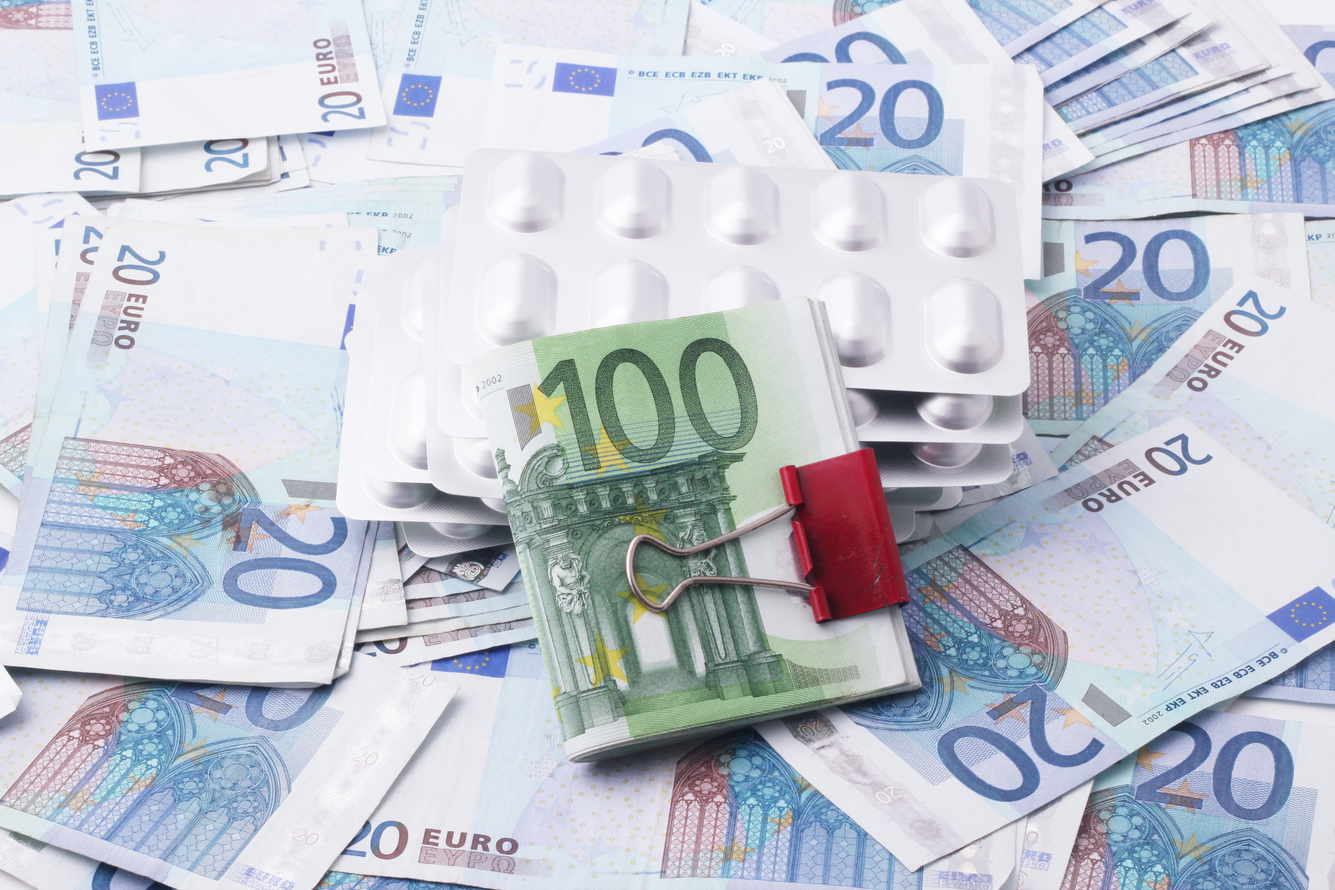
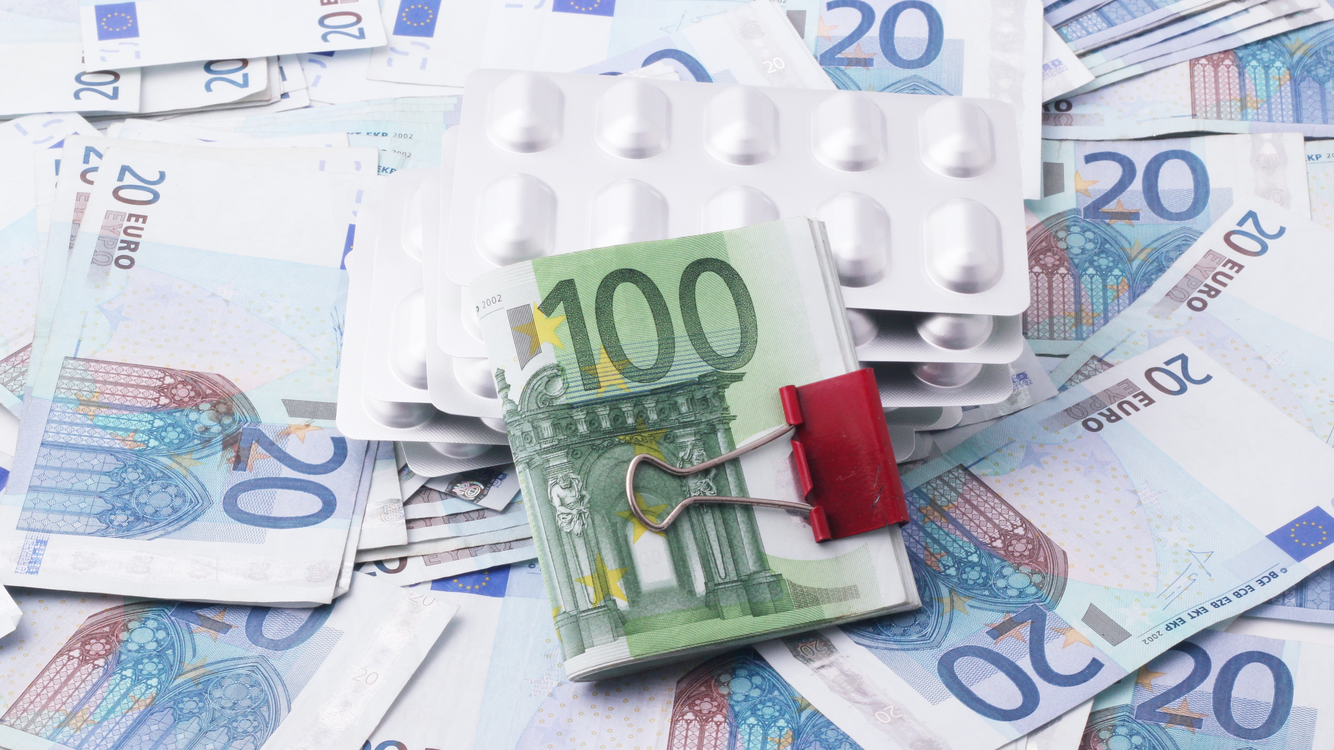
improved UI

diff --git a/index.html b/index.html
@@ -5,12 +5,10 @@
     <meta http-equiv="X-UA-Compatible" content="IE=edge">
     <meta name="viewport" content="width=device-width, initial-scale=1.0">
     <link rel="stylesheet" href="https://maxcdn.bootstrapcdn.com/bootstrap/4.5.2/css/bootstrap.min.css">
-    <script src="https://ajax.googleapis.com/ajax/libs/jquery/3.5.1/jquery.min.js"></script> 
-    <script src="https://cdnjs.cloudflare.com/ajax/libs/popper.js/1.16.0/umd/popper.min.js"></script>
-    <script src="https://maxcdn.bootstrapcdn.com/bootstrap/4.5.2/js/bootstrap.min.js"></script>
-    <link href="https://stackpath.bootstrapcdn.com/font-awesome/4.7.0/css/font-awesome.min.css" rel="stylesheet">
+     <link href="https://stackpath.bootstrapcdn.com/font-awesome/4.7.0/css/font-awesome.min.css" rel="stylesheet">
      <title>Insurance</title>
     <link rel="stylesheet" href="index.css" />
+    
 </head>
 <body>
   <nav id="navbar" class="">
@@ -33,7 +31,7 @@
   </nav>
 
   
-  <div class="container"> 
+  <div class="container contain"> 
     <div id="carousel" class="carousel slide" data-ride="carousel"> 
 
       
@@ -45,20 +43,25 @@
       
         <div class="carousel-inner">
           <div class="carousel-item active">
-            <img src="photo1.jpg" class="d-block w-100" width="100%" height="100%" alt="sample1">
+            <img src="photo1.jpg" width="100%" height="100%" alt="sample1">
+            <div class="backdrop"></div>
           </div>
           <div class="carousel-item">
-            <img src="photo2.jpg" class="d-block w-100" width="100%" height="100%" alt="sample2">
+            <img src="photo2.jpg" width="100%" height="100%" alt="sample2">
+            <div class="backdrop"></div>
           </div>
           <div class="carousel-item">
-            <img src="photo3.jpg" class="d-block w-100" width="100%" height="100%" alt="sample3">
+            <img src="photo3.jpg" width="100%" height="100%" alt="sample3">
+            <div class="backdrop"></div>
           </div>
         </div>
       
-        <a class="carousel-control-prev" href="#demo" data-slide="prev">
+
+        <!-- <a class="left carousel-control" href="#demo" data-slide="prev" onclick="$('#demo').carousel('prev')">‹</a> -->
+        <a class="carousel-control-prev cbutton" href="#demo" data-slide="prev">
           <span class="carousel-control-prev-icon"></span>
         </a>
-        <a class="carousel-control-next" href="#demo" data-slide="next">
+        <a class="carousel-control-next cbutton" href="#demo" data-slide="next">
           <span class="carousel-control-next-icon"></span>
         </a>
       
@@ -210,5 +213,9 @@
 
 
     <script src="index.js"></script>
+    <script src="https://ajax.googleapis.com/ajax/libs/jquery/3.5.1/jquery.min.js"></script> 
+    <script src="https://cdnjs.cloudflare.com/ajax/libs/popper.js/1.16.0/umd/popper.min.js"></script>
+    <script src="https://maxcdn.bootstrapcdn.com/bootstrap/4.5.2/js/bootstrap.min.js"></script>
+   
 </body>
 </html>

diff --git a/renewal.css b/renewal.css
@@ -6,6 +6,9 @@
 .bs-glyphicons .glyphicon-class {display: block;text-align: center;word-wrap: break-word;}
 /* bootsrap */
 
+.body {
+  overflow: hidden;
+} 
 
 .item {cursor: pointer;}
 .item:hover{background-color:whitesmoke;}
@@ -69,23 +72,23 @@ body {
 
   header {
     float: left;
-    margin: 0 0 100px 600px;
+    margin: 0 0 50px 45px;
     padding: 5px 0 0 0;
-    width: 100%;
+    width: auto;
   }
   
   h1 {
     font-family: 'Changa One', sans-serif;
-    margin: 15px 0;
+    margin: 15px 0 25px 0 ;
     font-size: 3.75em;
     font-weight: 500;
     line-height: 0.8em;
-    margin-right: 400px;
+    /* margin-right: 400px; */
   }
   
   h2 {
     font-size: 20px;
-    margin: 0 20px 0 50px;
+    margin: 0 0px 0 5px;
     font-weight: normal;
 
   }

diff --git a/renewal.html b/renewal.html
@@ -7,9 +7,9 @@
     <script src="https://cdnjs.cloudflare.com/ajax/libs/popper.js/1.16.0/umd/popper.min.js"></script>
     <script src="https://maxcdn.bootstrapcdn.com/bootstrap/4.5.2/js/bootstrap.min.js"></script>
     <link rel="stylesheet" href="renewal.css" />
+    <meta name="viewport" content="width=device-width, initial-scale=1">
 </head>
 <body>
-<meta name="viewport" content="width=device-width, initial-scale=1">
 
 <header>
       <h1>Customer Name</h1>

diff --git a/index.css b/index.css
@@ -204,7 +204,7 @@ a {
   height: 60px;
   line-height: 60px;
   width: 100vw;
-  z-index: 10;
+  z-index: 20;
 }
 
 .nav-wrapper {
@@ -345,4 +345,23 @@ a {
 .cont {
   margin-top: 100px;
   text-align: center;
+}
+
+.contain {
+  margin-top: 80px;
+}
+
+.backdrop {
+  z-index: 10;
+  background-color: rgba(0,0,0,0.3);
+  position: absolute;
+  top: 0;
+  left: 0;
+  height: 100%;
+  width: 100%;
+}
+
+.cbutton {
+  z-index: 15;
+  color: white;
 }
